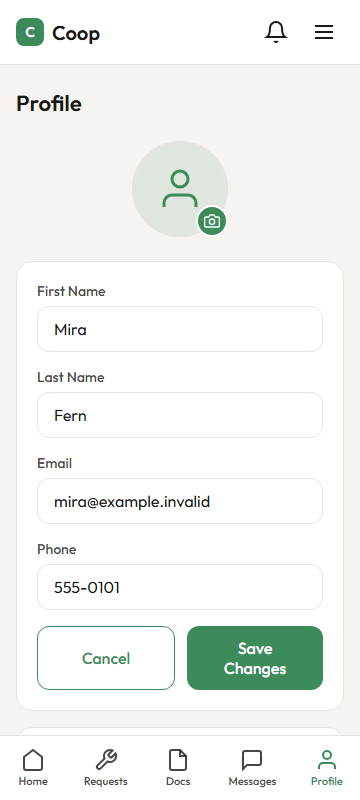
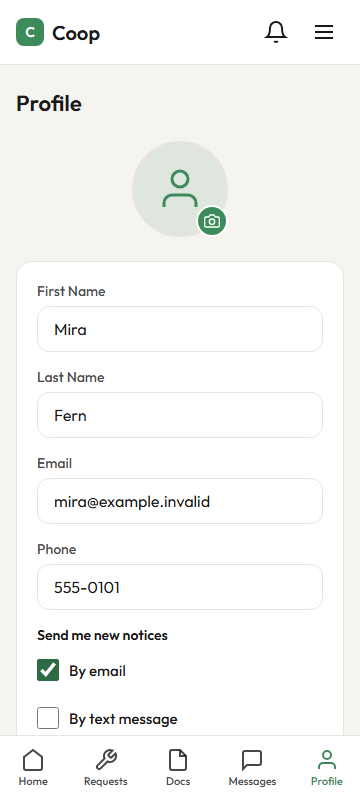
Say in the board video that notices go by email or text today
Main now lets members choose email or text for new notices and lets the
office send a published notice with one tick, but the video still called
phone and email delivery a later step. Add a slide showing the profile
choice and the send box, say plainly that a real email and text message
service is the step left (the default sender only writes to the API log),
and re-synthesize the narration and rebuild the MP4. Move the "Coming
next" status into the heading rows so burned-in captions don't cover it.

Changed region(s): [[0.5194, 0.7812, 0.9167, 0.875], [0.0917, 0.7812, 0.4889, 0.9062]]

diff --git a/docs/videos/01-own-board-overview/slides.html b/docs/videos/01-own-board-overview/slides.html
@@ -101,6 +101,15 @@
   </div>
 </section>
 
+<section id="care-3b" data-part="1" data-cue="On her profile, a member can choose">
+  <div class="heading-row"><h2>3 · By email or text</h2><span class="chip chip-now">Working today</span><span class="chip chip-next">Real sending next</span></div>
+  <div class="pics">
+    <figure><img class="shot h440" src="images/public-profile-edit-360.png" alt="Profile form on a phone with a Send me new notices group, By email ticked and By text message unticked"><figcaption>She chooses email or text</figcaption></figure>
+    <span class="arrow" aria-hidden="true">&rarr;</span>
+    <figure><img class="shot h440" src="images/admin-document-create-send-1280.png" alt="New Document dialog for a published notice with Also send to members by email and text ticked"><figcaption>The office ticks one box</figcaption></figure>
+  </div>
+</section>
+
 <section id="care-4" data-part="1" data-cue="Fourth, a leaking tap should be easy to report.">
   <div class="heading-row"><h2>4 · Easy repair requests</h2><span class="chip chip-now">Working today</span></div>
   <div class="cols">
@@ -141,16 +150,15 @@
 </section>
 
 <section id="summary" data-part="2" data-cue="So, in short.">
-  <div class="heading-row"><h2>In short</h2><span class="chip chip-now">All six work today</span></div>
+  <div class="heading-row"><h2>In short</h2><span class="chip chip-now">All six work today</span><span class="chip chip-next">Real email and text sending next</span></div>
   <div class="six">
     <div class="card"><svg class="pict" style="color:var(--terra)"><use href="#i-site"/></svg><span class="t">The home page</span></div>
     <div class="card"><svg class="pict" style="color:var(--terra)"><use href="#i-pen"/></svg><span class="t">Pages, board list, colours, photos</span></div>
-    <div class="card"><svg class="pict" style="color:var(--terra)"><use href="#i-bell"/></svg><span class="t">Notices</span></div>
+    <div class="card"><svg class="pict" style="color:var(--terra)"><use href="#i-bell"/></svg><span class="t">Notices, by email or text</span></div>
     <div class="card"><svg class="pict" style="color:var(--terra)"><use href="#i-wrench"/></svg><span class="t">Repair requests, with photos</span></div>
     <div class="card"><svg class="pict" style="color:var(--terra)"><use href="#i-text"/></svg><span class="t">Bigger text</span></div>
     <div class="card"><svg class="pict" style="color:var(--terra)"><use href="#i-face"/></svg><span class="t">Profile pictures</span></div>
   </div>
-  <p class="lead" style="margin-top:36px"><span class="chip chip-next">Coming next</span>&ensp;Notices sent straight to your phone or email</p>
 </section>
 
 <section id="ask" data-part="3" data-cue="We ask three small things.">

diff --git a/docs/videos/01-own-board-overview/README.md b/docs/videos/01-own-board-overview/README.md
@@ -1,6 +1,6 @@
 # 01 · A website and a helping hand for OWN
 
-> **Runtime:** about 3 min 32 s · **Audience:** the OWN board and members who barely use the web · **Prerequisites:** none
+> **Runtime:** about 3 min 53 s · **Audience:** the OWN board and members who barely use the web · **Prerequisites:** none
 
 **Video:** [01-own-board-overview.mp4](01-own-board-overview.mp4) · [Slides](slides.html) · **Audio:** [01-own-board-overview.mp3](01-own-board-overview.mp3) · [Transcript](script.md)
 
@@ -22,9 +22,9 @@ By the end, the viewer can:
 
 | Question | What a strong answer includes |
 | --- | --- |
-| What does the platform do for us? | A readable website, office-edited content, notices, repair requests, bigger text, profile photos |
-| What works today? | All six: the home page, website pages the office adds and removes, the board list, colours, photo library, notices, repair requests (send with photos, receive, start and finish), 400% text, profile pictures |
-| What comes next? | Sending a notice straight to a member's phone or email |
+| What does the platform do for us? | A readable website, office-edited content, notices by email or text, repair requests, bigger text, profile photos |
+| What works today? | All six: the home page, website pages the office adds and removes, the board list, colours, photo library, notices (members choose email or text, the office ticks one box to send), repair requests (send with photos, receive, start and finish), 400% text, profile pictures |
+| What comes next? | Connecting a real email and text message service; until then the API writes each message to its log and nothing leaves the system |
 | What do you need from us? | Two members to try it, first three pages, a named admin |
 
 ## Code / assets on screen
@@ -37,6 +37,7 @@ By the end, the viewer can:
 | `images/admin-pages-1280.png` | The admin Pages screen: add, edit and remove website pages (working today) |
 | `images/admin-board-1280.png` | The admin Board screen: add, edit, reorder and remove directors (working today) |
 | `images/admin-documents-notices-1280.png`, `public-documents-notices-360.png` | Notices |
+| `images/public-profile-edit-360.png`, `admin-document-create-send-1280.png` | Notices by email or text: the member's "Send me new notices" choice, and the office's "Also send to members by email and text" box |
 | `images/public-maintenance-create-360.png`, `admin-maintenance-detail-received-1280.png`, `admin-maintenance-detail-started-1280.png`, `public-maintenance-detail-photos-360.png` | Repair requests, with photos |
 | `images/public-profile-photo-preview-360.png`, `public-messaging-chat-photo-360.png` | Profile photos: choose and save, then shown beside messages |
 
@@ -54,12 +55,12 @@ before the real site.
 | 00:17-00:30 | Six things | The six items and the two status chips |
 | 00:30-00:47 | 1 Beautiful and easy to read | OWN home page, working today |
 | 00:47-01:24 | 2 OWN runs it | Edited-in-admin tags; colours, photos, pages and the board list, all working today |
-| 01:24-01:43 | 3 Notices | Working today; phone and email delivery is a later step |
-| 01:43-02:15 | 4 Repair requests | Send with photos, receive, start, finish and follow, working today |
-| 02:15-02:33 | 5 Bigger words | Up to 400%, working today on every screen |
-| 02:33-02:47 | 6 Your own photo | Add, change or remove, shown beside messages, working today |
-| 02:47-03:09 | In short | All six working today; notices to phone or email coming next |
-| 03:09-03:32 | Our ask | Three small things, thank you |
+| 01:24-01:59 | 3 Notices | Working today, including the email or text choice and one-tick sending; a real email and text message service is the step left |
+| 01:59-02:31 | 4 Repair requests | Send with photos, receive, start, finish and follow, working today |
+| 02:31-02:49 | 5 Bigger words | Up to 400%, working today on every screen |
+| 02:49-03:03 | 6 Your own photo | Add, change or remove, shown beside messages, working today |
+| 03:03-03:30 | In short | All six working today; a real email and text message service coming next |
+| 03:30-03:53 | Our ask | Three small things, thank you |
 
 ## Demo commands
 

diff --git a/docs/videos/01-own-board-overview/script.md b/docs/videos/01-own-board-overview/script.md
@@ -24,7 +24,9 @@ Today, the office can change the colours, and keep a library of photos. The offi
 
 [pause 2s]
 
-Third, notices that nobody misses. The office writes a notice once. It shows on the front page of the website, and in the documents page for members. This works today. Sending a notice straight to your phone or email is a later step.
+Third, notices that nobody misses. The office writes a notice once. It shows on the front page of the website, and in the documents page for members. This works today.
+
+On her profile, a member can choose to get new notices by email, by text message, or both. When the office publishes a notice, one tick sends it to everyone who asked. This works today too. The one step left is connecting a real email and text message service, so the messages actually go out.
 
 [pause 2s]
 
@@ -44,7 +46,7 @@ Sixth, your own face. A member can add her own profile picture, change it, or ta
 
 ## Today and next
 
-So, in short. All six things work today. The home page, the pages and the board list the office edits, the colours and the photo library, notices, repair requests with photos, bigger text, and profile pictures. Coming next is sending a notice straight to your phone or email.
+So, in short. All six things work today. The home page, the pages and the board list the office edits, the colours and the photo library, notices by email or text, repair requests with photos, bigger text, and profile pictures. Coming next is connecting a real email and text message service, so those notices actually go out.
 
 [pause 2s]
 

diff --git a/docs/videos/README.md b/docs/videos/README.md
@@ -7,4 +7,4 @@ Narrated videos made from a script, a slide deck and captions. See the
 
 | Video | Topic | Runtime |
 | --- | --- | --- |
-| [01 · A website and a helping hand for OWN](01-own-board-overview/README.md) | Board pitch for the Coop platform | about 3 min 32 s |
+| [01 · A website and a helping hand for OWN](01-own-board-overview/README.md) | Board pitch for the Coop platform | about 3 min 53 s |
